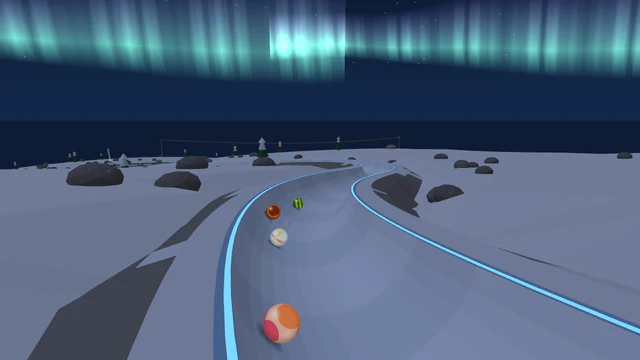
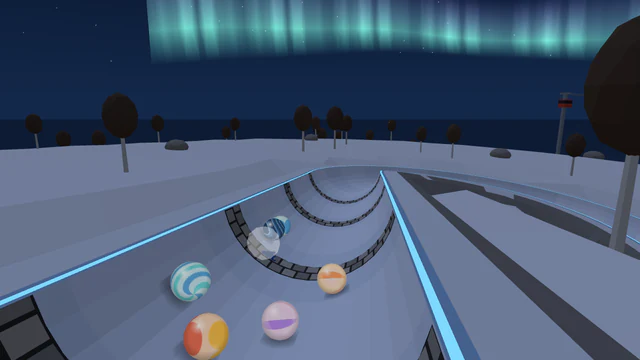
Åre Run: its own layout and opening; its records start again
Until now physically the same track as Greenland Expedition. A rumble start
down the summit moguls (the field let go in jittered waves), the hairpin, a
sweep under the gondola, down the World Championship slope (the big feature
and new signature), the funicular spiral, S-bends through the village and the
run to the frozen lake. Full report 50/50; Wild 43 (was Easy 29). Data
updates 2027-07-18 (--relayout, and its wildness). Off the known failures.
The pack script takes a kit track with no series marker as World Tour.

Claude-Session: https://claude.ai/code/session_011vSSkqNPL9kncfzrwF15wS

diff --git a/src/tracks/are-run.js b/src/tracks/are-run.js
@@ -4,8 +4,8 @@
 // lights, finishing in Åre village by the frozen Åresjön. Moses's design
 // ("New Track Designs", 9), built with the track kit.
 const {
-  track, plunge, straight, sBends, sweep, spiral, hairpin, splitter, runIn,
-  block, pileUp, parked, slalom, boost, brake, moguls,
+  track, opening, plunge, straight, sBends, sweep, spiral, hairpin, runIn,
+  parked, slalom, moguls, peg, brake,
 } = require('../trackKit');
 
 module.exports = track({
@@ -16,40 +16,53 @@ module.exports = track({
   surface: 'snow',
   biome: 'alpine',
   lighting: 'night-northern-lights',
-  signature: 'Funicular spiral',
+  signature: 'World Championship plunge',
   tvCameras: [
-    { section: 'Funicular spiral', at: 0.6, side: 'left', distance: 6, height: 8 },
-    { section: 'Splitter', at: 0.8, side: 'right', distance: 6, height: 5 },
+    // (At the foot of the plunge, looking back up the World Championship slope at the field coming down.)
+    { section: 'Village S-bends', at: 0.2, side: 'left', distance: 6, height: 8 },
+    { section: 'Kabinbanan sweep', at: 0.7, side: 'right', distance: 6, height: 6 },
   ],
   billboardFrame: 'wood',
   // The gate near the top of Åreskutan, bare and wind-swept; the finish in the village by
   // the frozen Åresjön, warm lights in the wooden houses and the old stone church nearby.
   start: { scenery: ['bare'], gate: 'trapdoor', shots: { countdown: 'front', launch: 'low-chase' } },
   designChanges: [
-    'A 50 m straight, "Run to the hairpin", before the hairpin: the recipe needs a braking zone before the one sharp bend.',
-    'Reindeer on the summit plunge (a pile-up before the slalom gates): without it the strongest marbles win too often.',
+    'Its own layout (Moses, 15 Nov 2026: World Tour re-layouts): down the summit\'s moguls, the hairpin, a sweep under the gondola line, down the World Championship slope (the big feature), the funicular spiral, S-bends through the village and the run to the lake.',
+    'A rumble start (since 15 Nov 2026): down the summit\'s mogul field, the field let go in jittered waves, which keep the luck the reindeer pile-up gave.',
   ],
   finish: { landmark: 'church', scenery: ['frozen-lake', 'wooden-houses'] },
+  // (The rumble start: down the summit's mogul field and through the gates; let go in jittered waves, a new order
+  // every race.)
+  opening: opening('rumble-start', {
+    names: { plunge: 'Summit moguls' },
+    waves: { groups: 5, gap: 0.14, jitter: 0.1 },
+  }),
   sections: [
-    { name: 'Summit plunge', shape: plunge(80, { grade: 0.6 }), obstacles: [pileUp({ costume: 'reindeer', at: 0.42 }), slalom({ from: 0.6, to: 0.97, count: 5, loss: 0.25 })], scenery: ['bare'] },
-    { name: 'Fell S-bends', shape: sBends({ first: 'left', radius: 75, degrees: 80, grade: 0.13 }), scenery: ['rocks'], billboards: 1 },
-    { name: 'Splitter', shape: splitter({ side: 'left', balance: { tipOffset: -1.7, left: { drag: 1.52, scrub: 1.52 }, right: { drag: 0.42, scrub: 0.72 } } }), around: 'mountain-hut', scenery: ['rocks'] },
     {
-      name: 'Lake sweep', shape: sweep({ side: 'right', radius: 80, degrees: 160, grade: 0.07 }), features: [boost({ at: 0.08 })],
-      billboards: 2, overhead: ['gondola'], scenery: ['pines'],
+      name: 'Run to the hairpin', shape: straight(60, { grade: 0.13 }), billboards: 1, scenery: ['birches'],
+      obstacles: [peg({ costume: 'snowman', at: 0.3, line: 'left' }), peg({ costume: 'snowman', at: 0.55, line: 'right' })],
     },
-    // (Not in the design: the recipe's braking zone needs a straight before the one sharp bend.)
-    { name: 'Run to the hairpin', shape: straight(50, { grade: 0.13 }), billboards: 1, scenery: ['birches'] },
-    { name: 'Hairpin', shape: hairpin({ side: 'left' }), obstacles: [block({ costume: 'reindeer', line: 'high', size: 'large' })], scenery: ['birches'] },
+    { name: 'Hairpin', shape: hairpin({ side: 'left' }), scenery: ['birches'] },
     {
-      // The steepest stretch after the start: a nod to Åre's alpine World Championships.
-      name: 'World Championship plunge', shape: plunge(120, { grade: 0.38, from: 0.16 }),
-      features: [moguls({ from: 0.4, to: 0.95, count: 8 })], scenery: ['race-netting'],
+      name: 'Kabinbanan sweep', shape: sweep({ side: 'right', radius: 80, degrees: 150, grade: 0.1 }),
+      billboards: 2, overhead: ['gondola'], scenery: ['rocks'],
+      obstacles: [peg({ costume: 'snowman', at: 0.35, line: 'left' }), peg({ costume: 'snowman', at: 0.7, line: 'right' })],
     },
-    { name: 'Funicular spiral', shape: spiral({ side: 'right', radius: 45, grade: 0.17 }), scenery: ['funicular'] },
+    { name: 'To the start house', shape: straight(30, { grade: 0.1 }), scenery: ['race-netting'] },
     {
-      name: 'Final plunge', shape: straight(90, { grade: 0.18 }),
-      obstacles: [parked({ costume: 'kick-sled', at: 0.4, side: 'right', length: 8 })], scenery: ['wooden-houses'],
+      // Åre's alpine World Championship slope: the track's big feature, a long steep drop.
+      name: 'World Championship plunge', shape: plunge(90, { grade: 0.38, from: 0.16 }),
+      features: [moguls({ from: 0.45, to: 0.95, count: 8 })], scenery: ['race-netting'], billboards: 1,
+    },
+    { name: 'Funicular spiral', shape: spiral({ side: 'left', radius: 45, grade: 0.15 }), scenery: ['funicular'] },
+    {
+      name: 'Village S-bends', shape: sBends({ first: 'right', radius: 70, degrees: 75, grade: 0.12 }), scenery: ['wooden-houses'],
+      obstacles: [peg({ costume: 'snowman', at: 0.3, line: 'right' }), peg({ costume: 'snowman', at: 0.7, line: 'left' })],
+    },
+    {
+      name: 'Final straight', shape: straight(80, { grade: 0.13 }), scenery: ['wooden-houses'],
+      features: [brake({ at: 0.05, length: 12, drag: 0.02 })],
+      obstacles: [parked({ costume: 'kick-sled', at: 0.3, side: 'right', length: 8 }), slalom({ from: 0.55, to: 0.9, count: 3, loss: 0.3 })],
     },
     { name: 'Finish', shape: runIn(), scenery: ['frozen-lake'] },
   ],

diff --git a/test/trackKit.test.js b/test/trackKit.test.js
@@ -56,7 +56,7 @@ test('every kit track opens with Bobsleigh Run\'s starting ramp, gate, channel a
     // (The staggered drop and the varied starts let the field go in waves: their funnel has that one setting more.
     // Any other opening only where its track asks for them, listed here: Nevada Drag Strip's crest start.)
     const { waves, ...rest } = funnel;
-    if (waves) assert.ok(['staggered-drop', 'clean-drop', 'peg-drop', 'pipe-drop', 'rolling-start', 'chicane-start', 'rumble-start'].includes(t.physics.kit.opening) || ['nevada-drag-strip', 'hudson-highlands-run', 'iguazu-devils-throat', 'chao-phraya-dawn-spiral', 'blyde-potholes-spiral', 'kings-canyon-lost-city', 'huashan-plank-walk', 'etna-valle-del-bove', 'tianmen-heavens-gate', 'sunken-ruins', 'crystal-grotto', 'moon-base'].includes(t.slug), `${t.slug}: waves at the gate`);
+    if (waves) assert.ok(['staggered-drop', 'clean-drop', 'peg-drop', 'pipe-drop', 'rolling-start', 'chicane-start', 'rumble-start'].includes(t.physics.kit.opening) || ['nevada-drag-strip', 'hudson-highlands-run', 'iguazu-devils-throat', 'chao-phraya-dawn-spiral', 'blyde-potholes-spiral', 'kings-canyon-lost-city', 'huashan-plank-walk', 'etna-valle-del-bove', 'tianmen-heavens-gate', 'sunken-ruins', 'are-run', 'crystal-grotto', 'moon-base'].includes(t.slug), `${t.slug}: waves at the gate`);
     if (!['funnel-drop', 'staggered-drop'].includes(t.physics.kit.opening)) assert.deepEqual(rest, tmFunnel);
     assert.deepEqual(t.physics.gate, bob.physics.gate);
     assert.equal(t.physics.collisions, true);
@@ -606,13 +606,17 @@ test('Åre Run is added by its data update, switched off, exactly as its track f
   assert.match(sql, /is_active|false/);
   // Later data updates (already run live, so the add is never edited): the latest gives the track in code.
   const dir = path.join(__dirname, '..', 'docs', 'data_updates');
-  const later = fs.readdirSync(dir).filter((f) => f > '2026-10-15-add-are-run.sql' && f.slice(11).startsWith('are-run-')).sort();
+  // (Not a pack move, `<date>-are-run-to-<pack>.sql`: it changes only the track's pack and wildness.)
+  const later = fs.readdirSync(dir).filter((f) => f > '2026-10-15-add-are-run.sql' && f.slice(11).startsWith('are-run-') && !f.slice(11).startsWith('are-run-to-')).sort();
   if (!later.length) {
     assert.equal(sql, execFileSync(process.execPath, [script, 'are-run', '--add-hidden', note], { encoding: 'utf8' }));
     return;
   }
   const body = (x) => x.slice(x.indexOf('UPDATE tracks'));
-  assert.equal(body(fs.readFileSync(path.join(dir, later.at(-1)), 'utf8')), body(execFileSync(process.execPath, [script, 'are-run', '--retune'], { encoding: 'utf8' })), `${later.at(-1)} no longer gives the track in code`);
+  const latest = fs.readFileSync(path.join(dir, later.at(-1)), 'utf8');
+  // (A new layout, `--relayout`, is a re-tune that also starts the track's records again: tracks.records_since.)
+  const mode = /gets a new layout\./.test(latest) ? '--relayout' : '--retune';
+  assert.equal(body(latest), body(execFileSync(process.execPath, [script, 'are-run', mode], { encoding: 'utf8' })), `${later.at(-1)} no longer gives the track in code`);
 });
 
 // The kit tracks after Åre Run, each added switched off by its own data update.

diff --git a/scripts/new-track-pack-sql.js b/scripts/new-track-pack-sql.js
@@ -22,7 +22,11 @@ if (!track) {
 }
 // (Series as src/routes/tracks.js works it out: a Grand Prix's kit carries `grandPrix`, a Rivers track's `river`, a
 // Canyons track's `canyon`, a Peaks track's `peak`, a Blocks track's `block`: Blocks 1 unless listed in BLOCKS_2.)
-const series = track.physics.kit?.grandPrix ? 'Grand Prix' : track.physics.kit?.river ? 'Rivers' : track.physics.kit?.canyon ? 'Canyons' : track.physics.kit?.peak ? 'Peaks' : track.physics.kit?.block ? 'Blocks' : track.series;
+// A kit track with none of these markers is a World Tour track (a World Tour re-layout, 15 Nov 2026, uses this too).
+const kit = track.physics.kit ?? {};
+const series = kit.pinball ? 'Pinball' : kit.river ? 'Rivers' : kit.peak ? 'Peaks' : kit.arcade ? 'Arcade' : kit.canyon ? 'Canyons'
+  : kit.block ? 'Blocks' : kit.athletics ? 'Track and Field' : kit.winterWonders ? 'Winter Wonders' : kit.coaster ? 'Coasters'
+    : kit.grandPrix ? 'Grand Prix' : track.series ?? 'World Tour';
 const out = execFileSync(process.execPath, [path.join(__dirname, 'wildness.js'), 'one', slug, '--from-report'], { encoding: 'utf8' });
 const w = JSON.parse(out.trim().split('\n').pop());
 const pack = packFor(slug, series);

diff --git a/test/samenessAllTracks.test.js b/test/samenessAllTracks.test.js
@@ -33,7 +33,7 @@ const KNOWN = {
   'san-francisco': ['opening-kind'],
   'table-mountain-run': ['opening', 'opening-kind', 'layout'],
   // World Tour.
-  'are-run': ['opening', 'opening-kind', 'layout'],
+
   'portes-du-soleil-run': ['opening-kind', 'layout'],
   'park-city-run': ['opening', 'opening-kind', 'layout'],
   'baqueira-beret-run': ['opening', 'opening-kind', 'layout'],

diff --git a/docs/README.md b/docs/README.md
@@ -8,7 +8,7 @@
 
 **Where it stands:**
 - **Website:** live at marblespins.com (Vercel builds every push to `Main`; production is at `548aeb8`, 15 Nov). Soft start (social media, a daily set of videos, 10–20 invited test pilots) since the week of 26 Oct. **Official launch 1 Dec 2026**, with the Holiday Season, the season pass and the apps. GA4 on since 31 Oct (after cookie consent); the Meta Pixel off.
-- **Tracks: 152 live in ten series** (World Tour, Grand Prix, Coasters, Canyons, Blocks, Track and Field, Rivers, Peaks, Pinball, Arcade), since the 9 motorsport Grand Prix tracks were switched on on 13 Nov; 191 in the database. **Switched off, waiting for Moses:** five more Rivers tracks (on the server since 13 Nov: Yukon Five Finger Run, Arno Old Bridge Run, Chao Phraya Dawn Spiral, Hudson Highlands Run, Iguazú Devil's Throat) and six more Canyons tracks (on Main, **waiting for the server deploy**: Bryce Hoodoo Run, Blyde Potholes Spiral, Taroko Marble Gorge, Samaria Iron Gates, Kings Canyon Lost City, the first coaster track with a loop, and Sumidero Christmas Falls; data updates `2027-06-29-…` to `2027-07-04-…`) and six more Peaks tracks (on Main, **waiting for the same deploy**: Half Dome Granite Slabs, Huayna Picchu Terraces, Huashan Plank Walk, Eiger North Face, Etna Valle del Bove, Tianmen Heaven's Gate; data updates `2027-07-05-…` to `2027-07-10-…`) and seven more Blocks 1 tracks (on Main, **waiting for the same deploy**: Mushroom Grove, Sunken Ruins, Clockwork Works, Crystal Grotto, Jungle Ruins, Moon Base, Neon Grid; data updates `2027-07-11-…` to `2027-07-17-…`); Moses deploys Canyons, Peaks and Blocks 1 together. The 31 holiday tracks are switched on but hidden and closed until 1 Dec 00:00 Swedish time (183 live then).
+- **Tracks: 152 live in ten series** (World Tour, Grand Prix, Coasters, Canyons, Blocks, Track and Field, Rivers, Peaks, Pinball, Arcade), since the 9 motorsport Grand Prix tracks were switched on on 13 Nov; 191 in the database. **Switched off, waiting for Moses:** five more Rivers tracks (on the server since 13 Nov: Yukon Five Finger Run, Arno Old Bridge Run, Chao Phraya Dawn Spiral, Hudson Highlands Run, Iguazú Devil's Throat) and six more Canyons tracks (on Main, **waiting for the server deploy**: Bryce Hoodoo Run, Blyde Potholes Spiral, Taroko Marble Gorge, Samaria Iron Gates, Kings Canyon Lost City, the first coaster track with a loop, and Sumidero Christmas Falls; data updates `2027-06-29-…` to `2027-07-04-…`) and six more Peaks tracks (on Main, **waiting for the same deploy**: Half Dome Granite Slabs, Huayna Picchu Terraces, Huashan Plank Walk, Eiger North Face, Etna Valle del Bove, Tianmen Heaven's Gate; data updates `2027-07-05-…` to `2027-07-10-…`) and seven more Blocks 1 tracks (on Main, **waiting for the same deploy**: Mushroom Grove, Sunken Ruins, Clockwork Works, Crystal Grotto, Jungle Ruins, Moon Base, Neon Grid; data updates `2027-07-11-…` to `2027-07-17-…`); World Tour re-layouts (on Main, **waiting for the same deploy**; their records start again): Åre Run (`2027-07-18-…`). Moses deploys Canyons, Peaks, Blocks 1 and the World Tour work together. The 31 holiday tracks are switched on but hidden and closed until 1 Dec 00:00 Swedish time (183 live then).
 - **Server:** last deployed **13 Nov 2026, ~23:00** (code fingerprint `7abad7e4c43d`, Main `7a3342d`; 57 tables, 527 columns): the Stripe webhook's refusals logged and its readiness on `/health`. The week's other deploys (12 Nov `b5cc113debdb` and `bc1bd7ff096f`; 13 Nov ~14:20 `8d7a15a7631e`, ~18:30 `6be622039502`, ~21:45 `c25a2aa05c5b`) brought wildness and track packs, pack sales, the free set of 15, the motorsport Grand Prix tracks, where players come from and the five Rivers. Main is at fingerprint `5636207a9263`: the next deploy brings only the six Canyons tracks.
 - **Wildness and track packs:** every live track is Easy / Wild / Extreme (from 1,000 report races; 68 / 61 / 23 of the 152), shown as a badge and a picker filter. 11 packs (one per series; Pinball and Arcade separate; Blocks 1 and 2), **$7.99, or 1,990 coins + $5.99**, on the website (Stripe, test mode), Google Play and the App Store. **Free set: 15 tracks**, one or two per series. **Complete packs** (20 live besides the free ones): Blocks 2 and Grand Prix; Rivers and Canyons have 20 once their new tracks are on. **Locking and selling are off** (`TRACK_PACKS`); only complete packs lock when it is on. The website keeps saying every track is free until `PACKS_LIVE` (`client/src/shared/packWording.js`). First end-to-end test purchase (Grand Prix pack, Stripe test mode) worked on 13 Nov. Still to do: the store products, the pack terms of sale (draft at `/preview/legal-packs`), Moses's go.
 - **Apps:** iPhone and Android (Capacitor). **Android 1.0.0 (5) in Play internal testing, tested by Moses on 13 Nov:** hit and bump sounds work, the ceremony song stops (the slow-phone and sound fixes of 11–12 Nov confirmed). `client/app-version.json` and the iPhone project at 1.0.0 (5); the next build is 6 (`npm run app:version -- build`). **Store submission planned for 16–20 Nov.**

diff --git a/docs/06-decisions.md b/docs/06-decisions.md
@@ -4,6 +4,7 @@
 
 | Date | Decision | Why |
 |---|---|---|
+| 2026-11-15 | **World Tour re-layouts** (Moses, 21:20: every World Tour pack track still on the sameness test's known failures gets its own layout and opening, with a signature feature from the real place, as the Grand Prix re-layouts; then seven new World Tour tracks to fill the pack to 20). Each keeps its name, slug and look; a `--relayout` data update starts its records again (`tracks.records_since`), and a `<slug>-to-world-tour` update sets its new wildness (the pack script now takes a kit track with no series marker as World Tour, as the server does). Done: **Åre Run** (Wild 43, was Easy 29: a rumble start down the summit moguls, the hairpin, a sweep under the gondola, down the World Championship slope as the big feature, the funicular spiral; `2027-07-18-…`). | The old World Tour tracks were built from one design and raced alike (several pairs identical, nine with the same opening). |
 | 2026-11-15 | **Seven more Blocks 1 tracks: the Blocks 1 pack filled to 20** (Moses, 13:38: the game-world look, our own voxel worlds with retro-game touches, never another game's names, creatures, textures or falling pieces; same rules as the Canyons and Peaks; 2 Easy, 3 Wild, 2 Extreme). Built, each pushed switched off in the Blocks 1 pack, not free: **Mushroom Grove** (Easy 24: a drop off a giant mushroom's cap), **Sunken Ruins** (Easy 17: a banked turn round a sunken dome), **Clockwork Works** (Wild 39: a splitter round a giant gear), **Crystal Grotto** (Wild 44: a spiral round a crystal spire), **Jungle Ruins** (Wild 45: a waterfall drop through falling water), **Moon Base** (Extreme 60: a 66 m drop over a crater's rim), **Neon Grid** (Extreme 57: a loop over the glowing grid, 69 overtakes); data updates `2027-07-11-…` to `2027-07-17-…`; seven new worlds, `kitLandmarksBlockWorlds.js` and three Blocks 1 start types (`portal-gate`, `block-pyramid`, `gear-tower`). On phones a Block Series cube pillar is now at most 8 cubes (each taller), as Crystal Grotto's tall pillars went over the triangle budget; looks only. Status: project doc `claude/blocks-1-seven-more-status.md`. Waiting for Moses's deploy (with the Canyons and Peaks), then his look at each preview before switching on. | With them the Blocks 1 pack has 20 besides the free Spawn Point and can go on sale. |
 | 2026-11-15 | **Six more Peaks tracks: the Peaks pack filled to 20** (Moses, 09:45: same rules as the six Canyons, and 65+ overtakes on a loop track; 2 Easy, 2 Wild, 2 Extreme; six famous mountains not yet in the series, each with two signature features, unlike the World Tour's alpine resorts). Built, each pushed switched off in the Peaks pack, not free: **Half Dome Granite Slabs** (Easy 31: a drop down the granite slabs below the face), **Huayna Picchu Terraces** (Extreme 48: a splitter round a terraced hill), **Huashan Plank Walk** (Easy 20: a dramatic banked turn round the plank walk's cliff), **Eiger North Face** (Wild 43: a banked spiral round a window pillar), **Etna Valle del Bove** (Extreme 50: a drop into the Valle del Bove), **Tianmen Heaven's Gate** (Wild 41: a loop under the great arch, 69 overtakes); data updates `2027-07-05-…` to `2027-07-10-…`; six palettes and `kitLandmarksPeak2.js`; the pack script knows Peaks. Huayna came out Extreme and Huashan Easy, Etna Extreme and Tianmen Wild (planned otherwise); the mix stays 2/2/2. Status: project doc `claude/peaks-six-more-status.md`. Waiting for Moses's deploy (with the Canyons), then his look at each preview before switching on. | With them the Peaks pack has 20 besides the free Everest Icefall Run and can go on sale. |
 | 2026-11-15 | **A coaster track can have a loop** (Kings Canyon Lost City, the first): over the loop's span the coaster's rails, spine, ties and towers stop (3 m either side), as the loop draws its own track and steel along its own path; before, they ran along the ground under it, 64 m with no rim under the rails, and blocked the follow camera. The rails check (`railGaps`) now finds each rail line's first point along the whole track (by height too), so lines that start after a loop are checked where they are. Looks only: race results unchanged. | A loop in a canyon is the Canyons series' loop; the coaster kit had never met one. |
